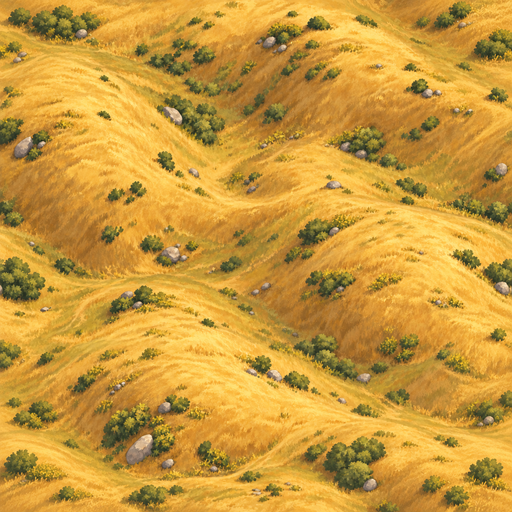
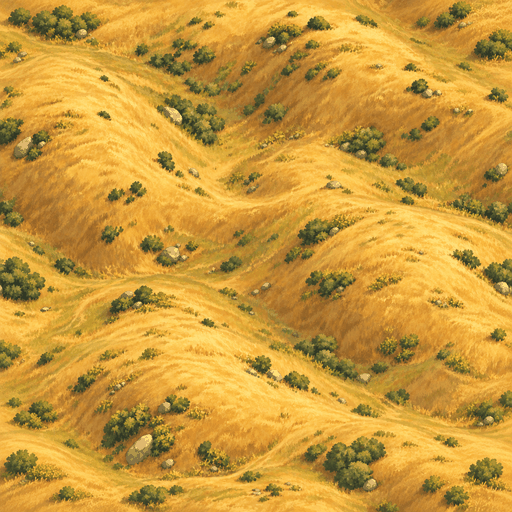
Village Chief: bigger map, standing unit figures, compressed artwork
The map now frames the explored land and zooms out as players explore,
with a Whole map toggle. Units are drawn as standing portrait cards that
rise above their tile, and tapping a card selects the unit. Move costs
show as small number badges. Artwork PNGs are compressed from 15 MB to
2.9 MB.

Claude-Session: https://claude.ai/code/session_01PfvwSH2CFxBVszBtaHEx6B

diff --git a/village-chief/index.html b/village-chief/index.html
@@ -75,6 +75,9 @@ header h1{font-size:2rem;letter-spacing:.04em}
 .adv button{min-height:40px;font-size:.92rem;align-self:flex-start}
 .ailog{text-align:left;margin:0;padding-left:1.2em;font-size:.98rem;max-height:40vh;overflow:auto}
 #map{display:block;width:100%;touch-action:manipulation;cursor:pointer;border-radius:10px}
+.mapview{position:relative}
+.zoomtgl{position:absolute;right:10px;top:10px;min-height:38px;padding:4px 12px;font-size:.88rem;font-weight:700;background:rgba(20,28,24,.82);color:#F3F6F2;border:1px solid rgba(255,255,255,.25)}
+.zoomtgl:hover:not(:disabled){border-color:#FFD23F}
 .legend{display:flex;flex-wrap:wrap;gap:4px 14px;font-size:.8rem;color:#C9D6CD;padding:0 4px 2px}
 .legend b{display:inline-block;width:12px;height:12px;border-radius:3px;vertical-align:-1px;margin-right:4px}
 
@@ -244,13 +247,13 @@ function genMap(seed){
   ['forest','forest','grass','hill','forest','grass'].forEach((k,j)=>t[nbB[j]]=k);
   return {t,bridge:id(riverX[5],5),capA:A,capB:B,farmA:na[3],lumberB:nbB[0]};
 }
-let MAP=null,MAPSEED=null;
+let MAP=null,MAPSEED=null,cam=null,camSeed=null,wholeMap=false,rafOn=false;
 function M(){if(MAPSEED!==state.seed){MAP=genMap(state.seed);MAPSEED=state.seed;}return MAP}
 
 /* ---------- state ---------- */
 let state, online=false, loaded=false, ref=null, seat=null, localModal=null, writing=false, dirty=false, syncErr=null;
 let sel=null, selU=null, tab='city', shell=false, pend=null, anim=null;
-const LOCAL_ACTS=new Set(['advice','end','nolocal','seat','unseat','reset','resetyes','start','again','tab','deselect','rules','cancelmove']);
+const LOCAL_ACTS=new Set(['whole','advice','end','nolocal','seat','unseat','reset','resetyes','start','again','tab','deselect','rules','cancelmove']);
 const P=()=>state.players[state.cur];
 const O=()=>state.players[1-state.cur];
 const hasAI=()=>state&&state.ai!=null;
@@ -456,6 +459,7 @@ const act={
     act.move(t); pend=null;},
   cancelmove(){pend=null},
   tab(k){tab=k},
+  whole(){wholeMap=!wholeMap},
   deselect(){sel=null; selU=null; pend=null},
   advice(k){const a=ADVICE[+k]; if(!a||!a.go)return;
     if(a.go.tab){tab=a.go.tab; scrollTarget='.tabs';}
@@ -632,21 +636,61 @@ function drawTile(g,i,x,y,s,m){
   }
 }
 
-function drawUnitFace(g,type,x,y,s){
-  const im=IMG['u_'+type];
-  if(im){g.save(); g.beginPath(); g.arc(x,y,s*.42,0,Math.PI*2); g.clip(); const sz=s*.9; g.drawImage(im,x-sz/2,y-sz/2,sz,sz); g.restore();}
-  else {g.font=`${s*.55}px serif`; g.fillStyle='#000'; g.fillText(UNITS[type].i,x,y+1);}
+function rrect(g,x,y,w,h,r){g.beginPath();g.moveTo(x+r,y);g.arcTo(x+w,y,x+w,y+h,r);g.arcTo(x+w,y+h,x,y+h,r);g.arcTo(x,y+h,x,y,r);g.arcTo(x,y,x+w,y,r);g.closePath();}
+function drawStandee(g,type,owner,x,y,s,o={}){
+  // a cardboard figure: base on the tile, portrait card rising above the hex
+  const w=s*1.12, h=s*1.42, footY=y+s*.42, lift=o.bob?Math.sin(performance.now()/260)*s*.04:0;
+  const top=footY-h-lift, left=x-w/2, team=MAPC[owner], r=s*.16;
+  g.save();
+  if(o.ghost){g.globalAlpha=.6;} else if(o.dim){g.globalAlpha=.62;}
+  // base
+  g.beginPath(); g.ellipse(x,footY+s*.02,w*.5,s*.17,0,0,Math.PI*2); g.fillStyle='rgba(0,0,0,.35)'; g.fill();
+  g.beginPath(); g.ellipse(x,footY-s*.02,w*.44,s*.14,0,0,Math.PI*2); g.fillStyle=team; g.fill();
+  g.lineWidth=Math.max(1.5,s*.04); g.strokeStyle='rgba(255,255,255,.75)'; g.stroke();
+  // selection glow
+  if(o.selected){rrect(g,left-s*.08,top-s*.08,w+s*.16,h+s*.16,r*1.4); g.fillStyle='rgba(255,210,63,.55)'; g.fill();}
+  // card
+  rrect(g,left,top,w,h,r); g.fillStyle='#FBFAF5'; g.fill();
+  const im=IMG['u_'+type], inset=s*.07;
+  g.save(); rrect(g,left+inset,top+inset,w-2*inset,h-2*inset,r*.7); g.clip();
+  if(im){const ih=h-2*inset, iw=ih*im.width/im.height; g.drawImage(im,x-iw/2,top+inset,iw,ih);}
+  else {g.fillStyle='#E8EEE6'; g.fillRect(left,top,w,h); g.font=`${s*.75}px serif`; g.textAlign='center'; g.textBaseline='middle'; g.fillStyle='#000'; g.fillText(UNITS[type].i,x,top+h/2);}
+  g.restore();
+  rrect(g,left,top,w,h,r); g.lineWidth=Math.max(2.5,s*.1); g.strokeStyle=o.selected||o.ghost?'#FFD23F':team;
+  if(o.ghost) g.setLineDash([5,4]); g.stroke(); g.setLineDash([]);
+  // role badge
+  const br=s*.24, bx=left+w-br*.55, by=top+h-br*.55;
+  g.beginPath(); g.arc(bx,by,br,0,Math.PI*2); g.fillStyle=team; g.fill(); g.lineWidth=2; g.strokeStyle='#fff'; g.stroke();
+  g.font=`${br*1.15}px serif`; g.textAlign='center'; g.textBaseline='middle'; g.fillStyle='#000'; g.fillText(UNITS[type].i,bx,by+1);
+  g.restore();
 }
 function draw(){
   const cv=document.getElementById('map'); if(!cv||!state||state.phase==='end') return;
   const cw=cv.clientWidth; if(cw<=0) return;
-  const pad=4, hw=(cw-2*pad)/(W+.5), s=hw/Math.sqrt(3), ch=Math.ceil(pad*2+2*s+1.5*s*(H-1));
+  const ch=Math.round(Math.max(340,Math.min(cw*0.72,720)));
   const dpr=Math.min(window.devicePixelRatio||1,2);
-  cv.style.height=ch+'px'; cv.width=Math.round(cw*dpr); cv.height=Math.round(ch*dpr);
+  if(cv.width!==Math.round(cw*dpr)||cv.height!==Math.round(ch*dpr)){cv.style.height=ch+'px'; cv.width=Math.round(cw*dpr); cv.height=Math.round(ch*dpr);}
   const g=cv.getContext('2d'); g.setTransform(dpr,0,0,dpr,0,0);
-  const ctr=i=>{const[c,r]=cr(i);return[pad+hw*(c+.5*(r&1))+hw/2,pad+s+1.5*s*r]};
-  geom={s,ctr};
   const m=M(), ex=state.explored[viewer()];
+  // camera: frame the explored land (plus one ring), or the whole map
+  const S3=Math.sqrt(3), wx=i=>{const[c,r]=cr(i);return S3*(c+.5*(r&1))+S3/2}, wy=i=>1+1.5*cr(i)[1];
+  let x0=1e9,x1=-1e9,y0=1e9,y1=-1e9;
+  for(let i=0;i<N;i++){
+    let show=wholeMap||ex[i]; if(!show) for(const j of nb(i)) if(j>=0&&ex[j]){show=true;break;}
+    if(!show) continue; x0=Math.min(x0,wx(i)); x1=Math.max(x1,wx(i)); y0=Math.min(y0,wy(i)); y1=Math.max(y1,wy(i));
+  }
+  const minW=S3*7, minH=1.5*5; let bw=x1-x0+S3, bh=y1-y0+2;
+  const mx=(x0+x1)/2, my=(y0+y1)/2; bw=Math.max(bw,minW); bh=Math.max(bh,minH);
+  const tk=Math.min((cw-12)/bw,(ch-12)/bh,72);
+  const tgt={x:mx,y:my,k:tk};
+  if(!cam||camSeed!==state.seed){cam={...tgt}; camSeed=state.seed;}
+  let moving=false;
+  if(!window.matchMedia||!matchMedia('(prefers-reduced-motion: reduce)').matches){
+    for(const key of ['x','y','k']){const d=tgt[key]-cam[key]; if(Math.abs(d)>(key==='k'?.05:.01)){cam[key]+=d*.18; moving=true;} else cam[key]=tgt[key];}
+  } else Object.assign(cam,tgt);
+  const s=cam.k, ox=cw/2-cam.x*s, oy=ch/2-cam.y*s;
+  const ctr=i=>[ox+wx(i)*s, oy+wy(i)*s];
+  geom={s,ctr};
   g.fillStyle='#1B2420'; g.fillRect(0,0,cw,ch);
   for(let i=0;i<N;i++){const[x,y]=ctr(i); drawTile(g,i,x,y,s,m);}
   for(let i=0;i<N;i++){const o=state.owner[i]; if(o<0)continue; const[x,y]=ctr(i);
@@ -670,23 +714,18 @@ function draw(){
       if(f<steps){animating=true; const k=Math.floor(f), t=f-k, a=ctr(anim.path[k]), b=ctr(anim.path[k+1]); return [a[0]+(b[0]-a[0])*t,a[1]+(b[1]-a[1])*t];}}
     return ctr(u.i);};
   const su=selectedUnit();
-  for(const u of state.units){const[x,y]=unitPos(u);
-    if(su&&su.id===u.id){g.beginPath(); g.arc(x,y,s*.62,0,Math.PI*2); g.fillStyle='rgba(255,210,63,.45)'; g.fill();}
-    g.globalAlpha=(u.moved&&u.o===state.cur)?.55:1;
-    g.beginPath(); g.arc(x,y,s*.47,0,Math.PI*2); g.fillStyle='#FBFAF5'; g.fill();
-    g.lineWidth=Math.max(2,s*.14); g.strokeStyle=(su&&su.id===u.id)?'#FFD23F':MAPC[u.o]; g.stroke();
-    drawUnitFace(g,u.type,x,y,s); g.globalAlpha=1;}
+  // fog first, so standees can rise above the hex tops without being covered
   for(let i=0;i<N;i++){if(ex[i])continue; const[x,y]=ctr(i);
     hexPath(g,x,y,s+.7); g.fillStyle='#1F2925'; g.fill();
     g.fillStyle='rgba(255,255,255,.05)'; g.font=`${s*.6}px serif`; g.fillText('?',x,y);}
-  const u=su;
-  if(u&&canAct()&&u.o===state.cur&&!u.moved&&!animating){
-    const R=reach(u);
+  if(sel!=null){const[x,y]=ctr(sel); hexPath(g,x,y,s*.92); g.lineWidth=3.5; g.strokeStyle='#FFD23F'; g.stroke();}
+  const u=su, showReach=u&&canAct()&&u.o===state.cur&&!u.moved&&!animating, R=showReach?reach(u):{};
+  if(showReach){
     for(const k in R){const[x,y]=ctr(+k); const isP=pend===+k;
       hexPath(g,x,y,s*.84); g.fillStyle=isP?'rgba(255,210,63,.65)':'rgba(255,236,150,.42)'; g.fill();
       g.lineWidth=isP?4:2.5; g.strokeStyle=isP?'#FFFFFF':'rgba(255,214,70,1)'; g.stroke();
-      if(!isP){g.font=`700 ${Math.max(10,s*.42)}px "Nunito",sans-serif`; g.lineWidth=3; g.strokeStyle='rgba(0,0,0,.55)';
-        g.strokeText(R[k]+(R[k]>1?' steps':' step'),x,y+s*.48); g.fillStyle='#FFF6C8'; g.fillText(R[k]+(R[k]>1?' steps':' step'),x,y+s*.48);}}
+      if(!isP){const br=Math.max(9,s*.2), by=y-s*.5; g.beginPath(); g.arc(x,by,br,0,Math.PI*2); g.fillStyle='rgba(30,42,36,.85)'; g.fill();
+        g.lineWidth=2; g.strokeStyle='#FFD23F'; g.stroke(); g.font=`800 ${br*1.2}px "Nunito",sans-serif`; g.fillStyle='#FFF6C8'; g.fillText(R[k],x,by+1);}}
     if(pend!=null&&R[pend]!==undefined){
       const pts=pathTo(u,pend).map(ctr);
       g.lineCap='round'; g.lineJoin='round';
@@ -695,20 +734,29 @@ function draw(){
       const [a,b]=[pts[pts.length-2],pts[pts.length-1]], ang=Math.atan2(b[1]-a[1],b[0]-a[0]);
       g.save(); g.translate(b[0],b[1]); g.rotate(ang); g.beginPath(); g.moveTo(s*.05,0); g.lineTo(-s*.35,-s*.28); g.lineTo(-s*.35,s*.28); g.closePath();
       g.fillStyle='#FFFFFF'; g.fill(); g.lineWidth=2; g.strokeStyle='rgba(0,0,0,.45)'; g.stroke(); g.restore();
-      const[x,y]=ctr(pend); g.globalAlpha=.75; g.beginPath(); g.arc(x,y,s*.47,0,Math.PI*2); g.fillStyle='#FBFAF5'; g.fill();
-      g.lineWidth=3; g.strokeStyle='#FFD23F'; g.setLineDash([4,3]); g.stroke(); g.setLineDash([]);
-      drawUnitFace(g,u.type,x,y,s); g.globalAlpha=1;
     }
   }
-  if(sel!=null){const[x,y]=ctr(sel); hexPath(g,x,y,s*.92); g.lineWidth=3.5; g.strokeStyle='#FFD23F'; g.stroke();}
-  if(animating) requestAnimationFrame(draw); else if(anim) anim=null;
+  // units as standing figures, drawn back to front so nearer ones overlap
+  const list=state.units.map(un=>({un,p:unitPos(un)})).sort((A,B)=>A.p[1]-B.p[1]);
+  for(const {un,p} of list){
+    drawStandee(g,un.type,un.o,p[0],p[1],s,{selected:su&&su.id===un.id,dim:un.moved&&un.o===state.cur});
+  }
+  if(showReach&&pend!=null&&R[pend]!==undefined){const[x,y]=ctr(pend); drawStandee(g,u.type,u.o,x,y,s,{ghost:true});}
+  if(!animating&&anim) anim=null;
+  if((animating||moving)&&!rafOn){rafOn=true; requestAnimationFrame(()=>{rafOn=false; draw();});}
 }
 function hit(e){
   if(!geom) return -1;
   const r=e.currentTarget.getBoundingClientRect(), x=e.clientX-r.left, y=e.clientY-r.top;
   let best=-1,bd=1e9;
   for(let i=0;i<N;i++){const[cx,cy]=geom.ctr(i); const d=(cx-x)**2+(cy-y)**2; if(d<bd){bd=d;best=i;}}
-  return bd<(geom.s**2)?best:-1;
+  const tile=bd<(geom.s**2)?best:-1, s=geom.s, su=selectedUnit();
+  if(su&&tile>=0&&canAct()&&su.o===state.cur&&!su.moved&&reach(su)[tile]!==undefined) return tile;
+  // a tap on a standing figure selects that unit's tile
+  const cards=state.units.map(u=>{const[cx,cy]=geom.ctr(u.i);return{i:u.i,cx,cy}}).sort((a,b)=>b.cy-a.cy);
+  for(const c of cards){const w=s*1.12,h=s*1.42,foot=c.cy+s*.42;
+    if(x>=c.cx-w/2&&x<=c.cx+w/2&&y>=foot-h&&y<=foot+s*.15) return c.i;}
+  return tile;
 }
 function onMapClick(e){
   const t=hit(e); if(t<0) return;
@@ -897,9 +945,9 @@ function render(){
   if(state.phase==='end'){shell=false; app.innerHTML=renderEnd()+seatBar()+renderModal(); return;}
 
   if(!shell){
-    app.innerHTML=`<div id="top"></div><div class="grid"><div class="col"><div class="mapwrap"><canvas id="map" role="img" aria-label="Game map"></canvas><div class="mapbar" id="mapbar"></div>
+    app.innerHTML=`<div id="top"></div><div class="grid"><div class="col"><div class="mapwrap"><div class="mapview"><canvas id="map" role="img" aria-label="Game map"></canvas><button class="zoomtgl" id="zoomtgl" data-act="whole"></button></div><div class="mapbar" id="mapbar"></div>
       <div class="legend"><span><b style="background:${MAPC[0]}"></b>Riverside land</span><span><b style="background:${MAPC[1]}"></b>Woodland land</span>
-      <span>🧭 Explorer</span><span>🏕 Settler</span><span>🏘 City</span><span>Glowing tile = can move there</span></div></div><section id="advisors" class="col"></section></div>
+      <span>🧭 Explorer</span><span>🏕 Settler</span><span>🏘 City</span><span>Number = steps to get there</span></div></div><section id="advisors" class="col"></section></div>
       <div class="col" id="side"></div></div><div id="modal"></div>`;
     const cv=document.getElementById('map'); cv.addEventListener('click',onMapClick);
     ro.disconnect(); ro.observe(cv); shell=true;
@@ -926,6 +974,7 @@ function render(){
     <section class="panel p${p.key}" ${me?'':'style="opacity:.6"'}>${tabHTML()}</section>`;
   document.getElementById('advisors').innerHTML=advisorsHTML();
   document.getElementById('modal').innerHTML=renderModal();
+  document.getElementById('zoomtgl').textContent=wholeMap?'🔍 Zoom in':'🗺 Whole map';
   const mb=document.getElementById('mapbar'), mh=mapbarHTML(); mb.innerHTML=mh||(me?'<span>Tap your 🧭 explorer or 🏕 settler to move. Tap an empty tile in your land to build.</span>':`<span>Waiting for ${p.name}…</span>`); mb.classList.toggle('live',!!mh);
   draw();
 }

diff --git a/village-chief/ART.md b/village-chief/ART.md
@@ -59,7 +59,7 @@ Square portraits, head and shoulders, facing forward, plain soft background. The
 
 | File | Size | Prompt |
 |---|---|---|
-| `images/cover.png` | 1600 × 900 | Wide landscape of two small villages on either side of a winding river, fields on the left bank, a forest village on the right, an unfinished wooden bridge in the middle, morning light. |
+| `images/cover.png` | 1600 × 900 (the repo keeps a compressed 1280 × 720 copy) | Wide landscape of two small villages on either side of a winding river, fields on the left bank, a forest village on the right, an unfinished wooden bridge in the middle, morning light. |
 
 ## Checklist
 
